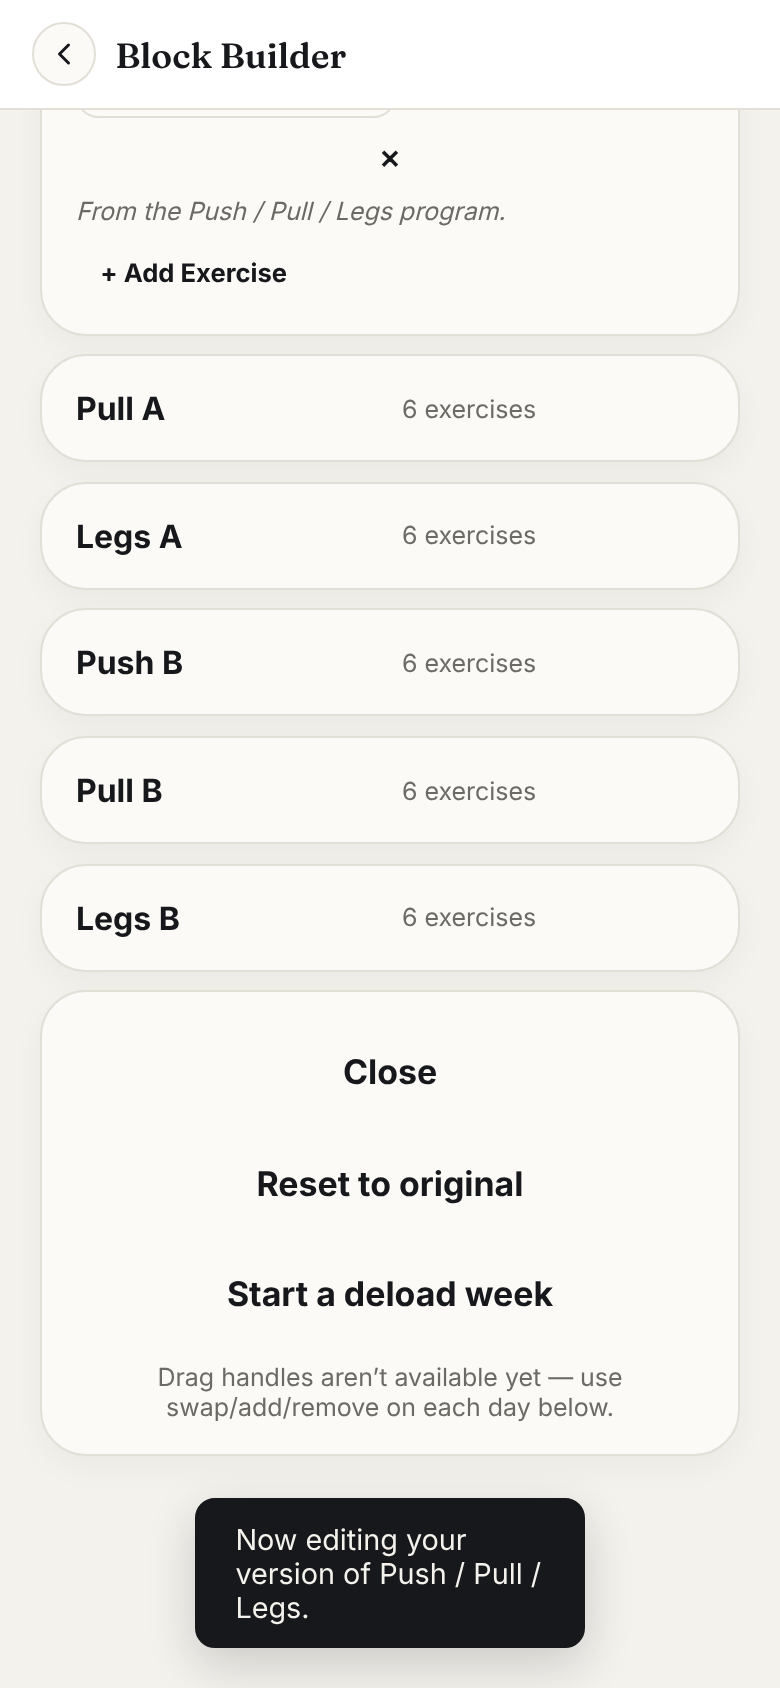
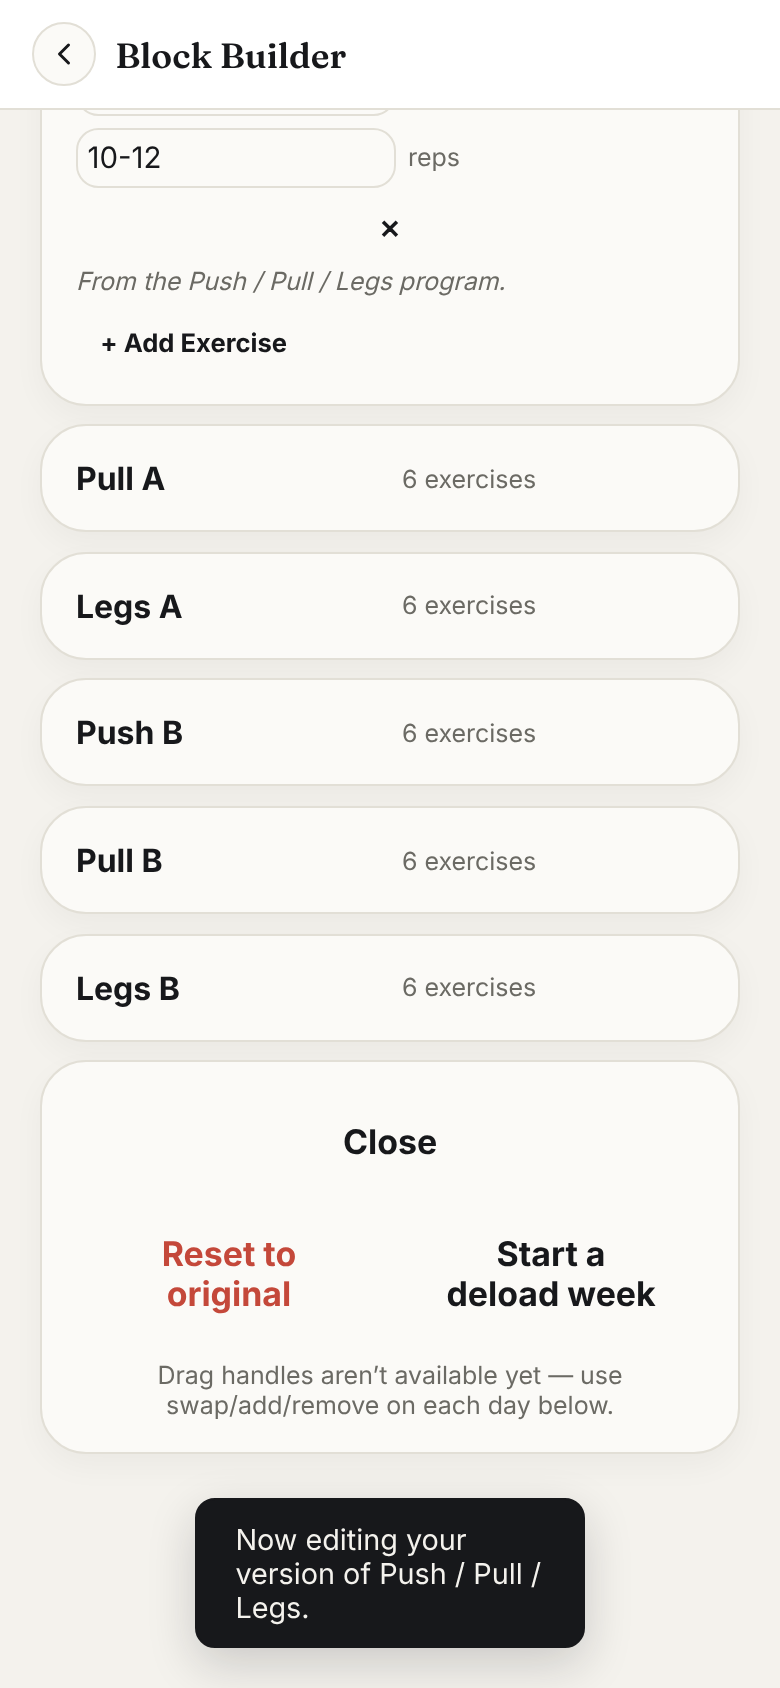
Fidelity pass: remaining shared components + Block Builder button row
- PR badge (component F) and new .banner class (component G), scaled
  per spec; applied .banner to the A2 finished-exercise "Estimated max"
  line, which was plain text before.
- Block Builder's "Reset to original" / deload-week toggle were full-
  width stacked ghost buttons (correct class, but mockup pairs them
  side by side); put them in a row, Reset colored as a destructive
  action to match the mockup's red "Reset".

Claude-Session: https://claude.ai/code/session_015L9cyNh1v2vMK9ZcFbmR4a

diff --git a/index.html b/index.html
@@ -907,8 +907,14 @@
     cursor: pointer; font-size: 0.93rem; font-weight: 600; white-space: nowrap; }
   .chip:hover { border-color: var(--accent); }
   .chip.chip-active { background: var(--text); color: var(--bg); border-color: var(--text); }
+  /* PR badge (component F): mockup 10px/600, 3x8px padding, x1.4234. */
   .pill-soft { display: inline-block; background: var(--accent-soft); color: var(--accent); border-radius: 999px;
-    padding: 0.15rem 0.55rem; font-size: 0.72rem; font-weight: 600; letter-spacing: 0.02em; }
+    padding: 0.27rem 0.71rem; font-size: 0.89rem; font-weight: 600; letter-spacing: 0.02em; }
+  /* Banner (component G) - informational callouts like "This is your
+     version". Mockup: bg #F3E9D2, border #E5D3A8, radius 12px, padding
+     8x10px, text 11px #5A4520, x1.4234. */
+  .banner { background: #F3E9D2; border: 1px solid #E5D3A8; border-radius: 1.07rem;
+    padding: 0.71rem 0.89rem; font-size: 0.98rem; color: #5A4520; margin-bottom: 0.8rem; }
 
   /* ── Quick Add grid ────────────────────────────────────────────── */
   .quick-add-grid { display: grid; grid-template-columns: repeat(2, 1fr); gap: 0.6rem; }
@@ -10460,7 +10466,7 @@ function exerciseFinishedSummaryHtml(ex) {
   const lastLabel = exerciseSetSummaryLabel(ex);
   return `<div style="margin-top:0.6rem;">
     <div class="muted small">Last: ${esc(lastLabel)}</div>
-    ${currentE1RM ? `<div class="muted small">Estimated max ${toDisplayWeight(currentE1RM).value} ${weightUnitLabel()}${diff != null ? `, ${diff >= 0 ? 'up' : 'down'} ${Math.abs(diff)} ${weightUnitLabel()} from last session` : ''}.</div>` : ''}
+    ${currentE1RM ? `<div class="banner">Estimated max ${toDisplayWeight(currentE1RM).value} ${weightUnitLabel()}${diff != null ? `, ${diff >= 0 ? 'up' : 'down'} ${Math.abs(diff)} ${weightUnitLabel()} from last session` : ''}.</div>` : ''}
     <button class="btn btn-primary" id="exNextExerciseBtn" style="width:100%;margin-top:0.6rem;">Next exercise</button>
   </div>`;
 }
@@ -15141,10 +15147,13 @@ function blockBuilderStep3Html() {
       ? `<button class="btn btn-ghost" id="blockCloseBtn" style="width:100%;">Close</button>`
       : `<button class="btn btn-primary" id="blockStartBtn" style="width:100%;" ${blockBuilderStarting ? 'disabled' : ''}>${blockBuilderStarting ? 'Starting…' : 'Start block'}</button>
          <button class="btn btn-ghost" id="blockBackStep3" style="width:100%;margin-top:0.5rem;">Back</button>`}
-    ${isProgram && blockBuilderViewingActive ? `<button class="btn btn-ghost" id="blockResetToOriginalBtn" style="width:100%;margin-top:0.5rem;">Reset to original</button>` : ''}
-    ${isProgram && blockBuilderViewingActive ? (block.deloadActive
-      ? `<button class="btn btn-ghost" id="blockEndDeloadBtn" style="width:100%;margin-top:0.5rem;">End deload week</button>`
-      : `<button class="btn btn-ghost" id="blockStartDeloadBtn" style="width:100%;margin-top:0.5rem;">Start a deload week</button>`) : ''}
+    ${isProgram && blockBuilderViewingActive ? `
+    <div class="row" style="margin-top:0.5rem;gap:0.5rem;">
+      <button class="btn btn-ghost" id="blockResetToOriginalBtn" style="flex:1;color:var(--danger);">Reset to original</button>
+      ${block.deloadActive
+        ? `<button class="btn btn-ghost" id="blockEndDeloadBtn" style="flex:1;">End deload week</button>`
+        : `<button class="btn btn-ghost" id="blockStartDeloadBtn" style="flex:1;">Start a deload week</button>`}
+    </div>` : ''}
     <p class="muted small" style="text-align:center;margin-top:0.6rem;margin-bottom:0;">${isProgram ? 'Drag handles aren’t available yet — use swap/add/remove on each day below.' : 'Built from your inputs — focus, priorities, days, equipment, and what to avoid.'}</p>
   </div>`;
 }
